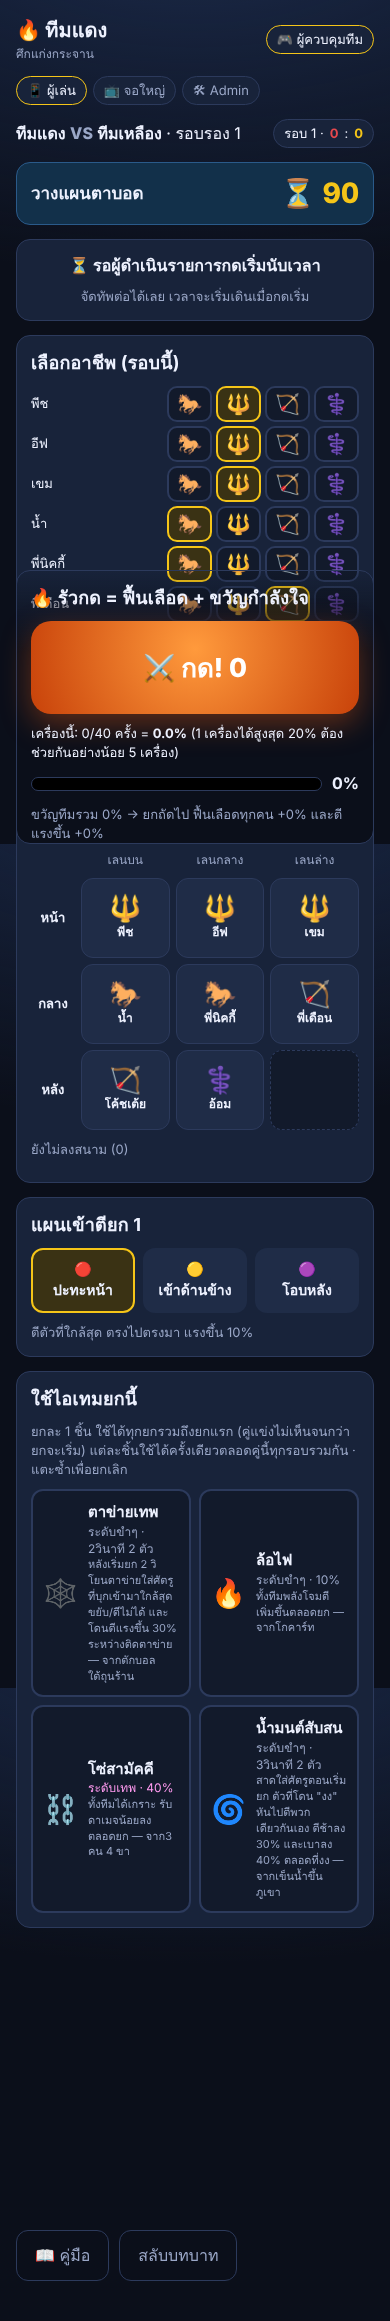
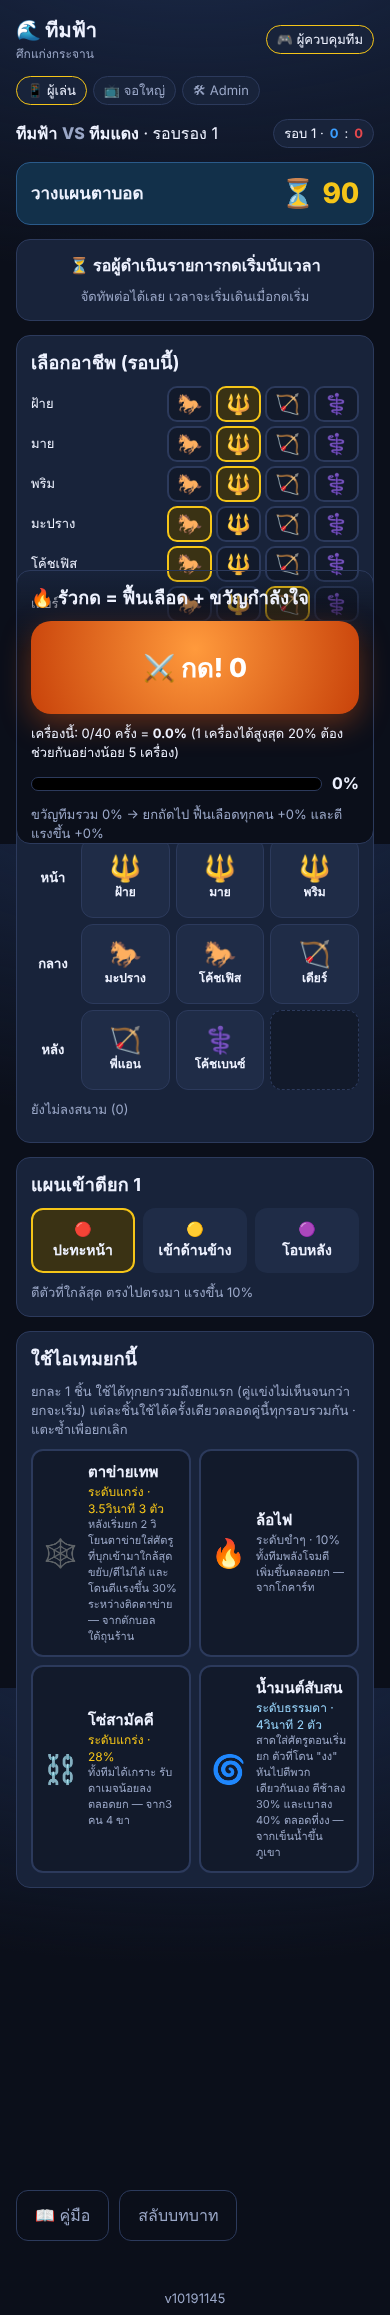
รอบตัดสิน: เลือกไอเทมเทพครั้งเดียว เก็บในกล่องไอเทม (แข่งจริง+ซ้อม)
Claude-Session: https://claude.ai/code/session_01JbJWCdY4QKd2woKbG6bJFF

diff --git a/js/app.js b/js/app.js
@@ -153,7 +153,7 @@
     const S = settings(); round = round || 1; wins = wins || { a: 0, b: 0 };
     const seed = 'm' + id + '-r' + round + '-' + Math.floor(Math.random() * 1e9).toString(36);
     const upd = {}; upd[a + '/plan'] = 'front'; upd[a + '/item'] = null; upd[b + '/plan'] = 'front'; upd[b + '/item'] = null;
-    if (round === 1) { upd[a + '/itemsUsed'] = null; upd[b + '/itemsUsed'] = null; upd[a + '/bonusUsed'] = null; upd[b + '/bonusUsed'] = null; }
+    if (round === 1) { upd[a + '/itemsUsed'] = null; upd[b + '/itemsUsed'] = null; upd[a + '/bonusUsed'] = null; upd[b + '/bonusUsed'] = null; upd[a + '/bonusPick'] = null; upd[b + '/bonusPick'] = null; }
     await R('teams').update(upd);
     await R('match').set({ id, a, b, round, wins, stage: 'plan', stageStart: now(), stageEnds: now() + S.tPlan * 1000, pausedAt: now(), seed, waveInputs: null, taps: null, result: null });
     await R('game').update({ phase: 'battle' });
@@ -180,7 +180,7 @@
         const t = st.teams[team] || {};
         let item = null;
         if (t.item && t.item.id && t.item.bonus) {
-          if (isDecider(m) && !t.bonusUsed && D.ITEMS[t.item.id]) { item = { id: t.item.id, tier: 0, revive: t.item.revive || null }; upd['__teams/' + team + '/bonusUsed'] = true; }
+          if (isDecider(m) && !t.bonusUsed && t.bonusPick === t.item.id && D.ITEMS[t.item.id]) { item = { id: t.item.id, tier: 0 }; upd['__teams/' + team + '/bonusUsed'] = true; }
         } else if (t.item && t.item.id) {
           const its = teamItems(team).find((x) => x.id === t.item.id);
           if (its && !its.used && !its.locked) { item = { id: its.id, tier: its.tier, revive: t.item.revive || null }; upd['__teams/' + team + '/itemsUsed/' + its.id] = true; }
@@ -298,8 +298,13 @@
     return h;
   }
   function itemsHtml(team, interactive) {
-    const sel = st.teams[team] && st.teams[team].item && !st.teams[team].item.bonus && st.teams[team].item.id;
-    return `<div class="item-grid">` + teamItems(team).map((it) => {
+    const t = st.teams[team] || {}; const sel = t.item && !t.item.bonus && t.item.id;
+    let bonus = '';
+    if (st.match && sideOf(team) && isDecider(st.match) && t.bonusPick && D.ITEMS[t.bonusPick]) {
+      const I = D.ITEMS[t.bonusPick]; const selB = t.item && t.item.bonus && t.item.id === t.bonusPick;
+      bonus = `<div class="item-card tier-0 ${t.bonusUsed ? 'used' : ''} ${selB ? 'sel' : ''}" style="border-color:var(--gold)" ${interactive && !t.bonusUsed ? `data-act="bonus-item" data-item="${t.bonusPick}"` : ''}><div class="em">⭐${I.emoji}</div><div><div class="nm">${I.name} (พิเศษ)${t.bonusUsed ? ' (ใช้แล้ว)' : ''}</div><div class="tier">ระดับเทพ · ${I.tiers[0]}${I.unit}${I.counts ? ' ' + I.counts[0] + ' ตัว' : ''}</div><div class="ds">ไอเทมเทพรอบตัดสิน</div></div></div>`;
+    }
+    return `<div class="item-grid">` + bonus + teamItems(team).map((it) => {
       const I = D.ITEMS[it.id]; const tierTxt = it.locked ? 'รอผลกิจกรรม' : `ระดับ${D.TIER_NAMES[it.tier]} · ${I.tiers[it.tier]}${I.unit}${I.counts ? ' ' + I.counts[it.tier] + ' ตัว' : ''}`;
       const cls = `item-card tier-${it.tier} ${it.used ? 'used' : ''} ${it.locked ? 'locked' : ''} ${sel === it.id ? 'sel' : ''}`;
       const act = interactive && !it.used && !it.locked ? `data-act="item" data-item="${it.id}"` : '';
@@ -388,8 +393,8 @@
       <div class="row"><label class="small">แผนเรา</label><select id="pr-plan">${Object.values(D.PLANS).map((p) => `<option value="${p.id}" ${pr.plan === p.id ? 'selected' : ''}>${p.emoji} ${p.name}</option>`).join('')}</select>
       <label class="small">แผนหุ่น</label><select id="pr-eplan">${Object.values(D.PLANS).map((p) => `<option value="${p.id}" ${pr.eplan === p.id ? 'selected' : ''}>${p.emoji} ${p.name}</option>`).join('')}</select></div>
       ${!pr.run ? `<div class="row"><button class="${pr.decider ? 'gold' : 'ghost'}" data-act="pr-decider">⭐ จำลองรอบตัดสิน (เสมอ 1-1): ${pr.decider ? 'เปิด' : 'ปิด'}</button><span class="small muted">ได้ไอเทมเทพเลือกเอง 1 ชิ้นเพิ่ม</span></div>` : ''}
-      ${!pr.run && pr.decider ? `<h3>⭐ ไอเทมเทพพิเศษ (เลือก 1 ใช้ยก 1 หรือเก็บไว้ใช้ตอนพักยก)</h3><div class="item-grid">` + Object.values(D.ITEMS).map((I) => `<div class="item-card tier-0 ${pr.item0 === 'bonus:' + I.id ? 'sel' : ''}" data-act="pr-item0" data-item="bonus:${I.id}"><div class="em">${I.emoji}</div><div><div class="nm">${I.name}</div><div class="tier">ระดับเทพ · ${I.tiers[0]}${I.unit}${I.counts ? ' ' + I.counts[0] + ' ตัว' : ''}</div></div></div>`).join('') + `</div>` : ''}
-      ${!pr.run ? `<h3>ใช้ไอเทมยก 1 (ถ้าจะใช้ · แตะซ้ำเพื่อยกเลิก)</h3><div class="item-grid">` + teamItems(team).map((it) => { const I = D.ITEMS[it.id]; const tierTxt = it.locked ? 'รอผลกิจกรรม' : `ระดับ${D.TIER_NAMES[it.tier]} · ${I.tiers[it.tier]}${I.unit}${I.counts ? ' ' + I.counts[it.tier] + ' ตัว' : ''}`; return `<div class="item-card tier-${it.tier} ${it.locked ? 'locked' : ''} ${pr.item0 === it.id ? 'sel' : ''}" ${!it.locked ? `data-act="pr-item0" data-item="${it.id}"` : ''}><div class="em">${I.emoji}</div><div><div class="nm">${I.name}</div><div class="tier">${tierTxt}</div></div></div>`; }).join('') + `</div>` : ''}
+      ${!pr.run && pr.decider ? `<h3>⭐ เลือกไอเทมเทพพิเศษ 1 ชิ้น (จะไปอยู่ในกล่องไอเทม)</h3><div class="item-grid">` + Object.values(D.ITEMS).map((I) => `<div class="item-card tier-0 ${pr.bonusPick === I.id ? 'sel' : ''}" data-act="pr-bonus-pick" data-item="${I.id}"><div class="em">${I.emoji}</div><div><div class="nm">${I.name}</div><div class="tier">ระดับเทพ · ${I.tiers[0]}${I.unit}${I.counts ? ' ' + I.counts[0] + ' ตัว' : ''}</div></div></div>`).join('') + `</div>` : ''}
+      ${!pr.run ? `<h3>ใช้ไอเทมยก 1 (ถ้าจะใช้ · แตะซ้ำเพื่อยกเลิก)</h3><div class="item-grid">` + (pr.decider && pr.bonusPick ? `<div class="item-card tier-0 ${pr.item0 === 'bonus:' + pr.bonusPick ? 'sel' : ''}" style="border-color:var(--gold)" data-act="pr-item0" data-item="bonus:${pr.bonusPick}"><div class="em">⭐${D.ITEMS[pr.bonusPick].emoji}</div><div><div class="nm">${D.ITEMS[pr.bonusPick].name} (พิเศษ)</div><div class="tier">ระดับเทพ</div></div></div>` : '') + teamItems(team).map((it) => { const I = D.ITEMS[it.id]; const tierTxt = it.locked ? 'รอผลกิจกรรม' : `ระดับ${D.TIER_NAMES[it.tier]} · ${I.tiers[it.tier]}${I.unit}${I.counts ? ' ' + I.counts[it.tier] + ' ตัว' : ''}`; return `<div class="item-card tier-${it.tier} ${it.locked ? 'locked' : ''} ${pr.item0 === it.id ? 'sel' : ''}" ${!it.locked ? `data-act="pr-item0" data-item="${it.id}"` : ''}><div class="em">${I.emoji}</div><div><div class="nm">${I.name}</div><div class="tier">${tierTxt}</div></div></div>`; }).join('') + `</div>` : ''}
       <div class="row"><button class="primary" data-act="practice-start">▶ เริ่มซ้อม${pr.run ? 'ใหม่' : ''}</button>${pr.run ? '<button class="ghost" data-act="practice-stop">หยุด</button>' : ''}</div>`;
     if (pr.run) {
       const r = pr.run; const S2 = settings();
@@ -400,8 +405,8 @@
         h += `<div class="panel"><div class="row"><h2 class="grow">จัดทัพใหม่ก่อนยก ${r.waveIdx + 1}</h2></div><div class="hint">${ui.prSel ? '👉 แตะช่องที่จะวาง' : 'แตะคนที่รอด แล้วแตะช่อง (เลือดไม่ฟื้น เหมือนศึกจริง)'}</div>${prBoardHtml(r, 'A', true)}</div>`;
         h += `<div class="panel"><h3>ทัพหุ่นตอนนี้</h3>${prBoardHtml(r, 'B', false)}</div>`;
         h += `<div class="panel"><h2>แผนเข้าตียก ${r.waveIdx + 1}</h2><div class="plan-grid">` + Object.values(D.PLANS).map((p) => `<button class="plan-btn ${r.plan === p.id ? 'sel' : ''}" data-act="pr-plan" data-plan="${p.id}"><span>${p.emoji}</span><b>${p.name}</b></button>`).join('') + `</div></div>`;
-        if (r.decider) h += `<div class="panel"><h2>⭐ รอบตัดสิน: ไอเทมเทพพิเศษ</h2><div class="hint">${r.bonusUsed ? 'ใช้สิทธิ์ไปแล้ว' : 'เลือกได้ 1 ชิ้น ระดับเทพ ใช้ได้ครั้งเดียว'}</div><div class="item-grid">` + Object.values(D.ITEMS).map((I) => `<div class="item-card tier-0 ${r.bonusUsed ? 'used' : ''} ${r.item === 'bonus:' + I.id ? 'sel' : ''}" ${!r.bonusUsed ? `data-act="pr-item" data-item="bonus:${I.id}"` : ''}><div class="em">${I.emoji}</div><div><div class="nm">${I.name}</div><div class="tier">ระดับเทพ · ${I.tiers[0]}${I.unit}${I.counts ? ' ' + I.counts[0] + ' ตัว' : ''}</div></div></div>`).join('') + `</div></div>`;
-        h += `<div class="panel"><h2>ใช้ไอเทมยกนี้</h2><div class="hint">ระดับตามอันดับจริงของทีม ชิ้นละครั้งต่อการซ้อม 1 ครั้ง</div><div class="item-grid">` + teamItems(team).map((it) => { const I = D.ITEMS[it.id]; const used = !!r.itemsUsed[it.id]; const sel = r.item === it.id; const tierTxt = it.locked ? 'รอผลกิจกรรม' : `ระดับ${D.TIER_NAMES[it.tier]} · ${I.tiers[it.tier]}${I.unit}${I.counts ? ' ' + I.counts[it.tier] + ' ตัว' : ''}`;
+        const bonusCard = (r.decider && r.bonusPick) ? `<div class="item-card tier-0 ${r.bonusUsed ? 'used' : ''} ${r.item === 'bonus:' + r.bonusPick ? 'sel' : ''}" style="border-color:var(--gold)" ${!r.bonusUsed ? `data-act="pr-item" data-item="bonus:${r.bonusPick}"` : ''}><div class="em">⭐${D.ITEMS[r.bonusPick].emoji}</div><div><div class="nm">${D.ITEMS[r.bonusPick].name} (พิเศษ)${r.bonusUsed ? ' (ใช้แล้ว)' : ''}</div><div class="tier">ระดับเทพ</div></div></div>` : '';
+        h += `<div class="panel"><h2>ใช้ไอเทมยกนี้</h2><div class="hint">ระดับตามอันดับจริงของทีม ชิ้นละครั้งต่อการซ้อม 1 ครั้ง</div><div class="item-grid">` + bonusCard + teamItems(team).map((it) => { const I = D.ITEMS[it.id]; const used = !!r.itemsUsed[it.id]; const sel = r.item === it.id; const tierTxt = it.locked ? 'รอผลกิจกรรม' : `ระดับ${D.TIER_NAMES[it.tier]} · ${I.tiers[it.tier]}${I.unit}${I.counts ? ' ' + I.counts[it.tier] + ' ตัว' : ''}`;
           return `<div class="item-card tier-${it.tier} ${used ? 'used' : ''} ${it.locked ? 'locked' : ''} ${sel ? 'sel' : ''}" ${!used && !it.locked ? `data-act="pr-item" data-item="${it.id}"` : ''}><div class="em">${I.emoji}</div><div><div class="nm">${I.name}${used ? ' (ใช้แล้ว)' : ''}</div><div class="tier">${tierTxt}</div></div></div>`; }).join('') + `</div></div>`;
         h += `<button class="primary" data-act="pr-next" style="font-size:20px">▶ เริ่มยก ${r.waveIdx + 1}</button>`;
       }
@@ -481,13 +486,13 @@
     if (!i) return toast('จัดหุ่นก่อนอย่างน้อย 1 ตัว');
     const roster = { ...A.roster, ...ros };
     const units = Sim.createUnits({ A: { team, cells: A.cells }, B: { team: eteam, cells: ecells } }, roster, S);
-    pr.run = { stage: 'wave', waveIdx: 0, units, cells: { ...A.cells }, ecells, roster, teams: { A: team, B: eteam }, plan: pr.plan, eplan: pr.eplan, item: pr.item0 || null, itemsUsed: {}, decider: !!pr.decider, bonusUsed: false, waves: [], seed: 'practice-' + Date.now(), playing: -1 };
+    pr.run = { stage: 'wave', waveIdx: 0, units, cells: { ...A.cells }, ecells, roster, teams: { A: team, B: eteam }, plan: pr.plan, eplan: pr.eplan, item: pr.item0 || null, itemsUsed: {}, decider: !!pr.decider, bonusPick: pr.bonusPick || null, bonusUsed: false, waves: [], seed: 'practice-' + Date.now(), playing: -1 };
     practiceWave(); render(); practiceTick();
   }
   function practiceWave() {
     const r = ui.practice.run; const S = settings(); const team = r.teams.A; const durs = [S.tWave1, S.tWave2, S.tWave3];
     let item = null;
-    if (r.item && r.item.startsWith('bonus:')) { const id = r.item.slice(6); if (r.decider && !r.bonusUsed && D.ITEMS[id]) { item = { id, tier: 0 }; r.bonusUsed = true; } }
+    if (r.item && r.item.startsWith('bonus:')) { const id = r.item.slice(6); if (r.decider && !r.bonusUsed && id === r.bonusPick && D.ITEMS[id]) { item = { id, tier: 0 }; r.bonusUsed = true; } }
     else if (r.item && !r.itemsUsed[r.item]) { const it = teamItems(team).find((x) => x.id === r.item); if (it && !it.locked) { item = { id: it.id, tier: it.tier }; r.itemsUsed[r.item] = true; } }
     r.item = null;
     const inputs = { A: { team, plan: r.plan, item, morale: 0, cells: r.cells }, B: { team: r.teams.B, plan: r.eplan, item: null, morale: 0, cells: r.ecells } };
@@ -537,9 +542,9 @@
     if (m.stage !== 'plan') h += `<div class="panel"><h3>ทัพศัตรู (${D.TEAMS[enemy].name}) ตอนนี้</h3>${boardHtml(enemy, {})}</div>`;
     h += `<div class="panel"><h2>แผนเข้าตียก ${w + 1}</h2>${plansHtml(team, true)}</div>`;
     if (isDecider(m)) {
-      const t = st.teams[team] || {}; const selB = t.item && t.item.bonus ? t.item.id : null;
-      h += `<div class="panel"><h2>⭐ รอบตัดสิน: ไอเทมเทพพิเศษ</h2><div class="hint">${t.bonusUsed ? 'ใช้สิทธิ์ไปแล้ว' : 'เลือกได้ 1 ชิ้น ระดับเทพ ใช้ได้ครั้งเดียวในรอบนี้ (เพิ่มจากไอเทมที่เหลือ)'}</div><div class="item-grid">` +
-        Object.values(D.ITEMS).map((I) => `<div class="item-card tier-0 ${t.bonusUsed ? 'used' : ''} ${selB === I.id ? 'sel' : ''}" ${!t.bonusUsed ? `data-act="bonus-item" data-item="${I.id}"` : ''}><div class="em">${I.emoji}</div><div><div class="nm">${I.name}</div><div class="tier">ระดับเทพ · ${I.tiers[0]}${I.unit}${I.counts ? ' ' + I.counts[0] + ' ตัว' : ''}</div></div></div>`).join('') + `</div></div>`;
+      const t = st.teams[team] || {};
+      if (!t.bonusPick) h += `<div class="panel"><h2>⭐ รอบตัดสิน: เลือกไอเทมเทพพิเศษ 1 ชิ้น</h2><div class="hint">เลือกครั้งเดียว จะไปอยู่ในกล่องไอเทมของทีม ใช้ยกไหนก็ได้ในรอบนี้</div><div class="item-grid">` +
+        Object.values(D.ITEMS).map((I) => `<div class="item-card tier-0" data-act="bonus-pick" data-item="${I.id}"><div class="em">${I.emoji}</div><div><div class="nm">${I.name}</div><div class="tier">ระดับเทพ · ${I.tiers[0]}${I.unit}${I.counts ? ' ' + I.counts[0] + ' ตัว' : ''}</div></div></div>`).join('') + `</div></div>`;
     }
     h += `<div class="panel"><h2>ใช้ไอเทมยกนี้</h2><div class="hint">ยกละ 1 ชิ้น ใช้ได้ทุกยกรวมถึงยกแรก (คู่แข่งไม่เห็นจนกว่ายกจะเริ่ม) แต่ละชิ้นใช้ได้ครั้งเดียวตลอดคู่นี้ทุกรอบรวมกัน · แตะซ้ำเพื่อยกเลิก</div>${itemsHtml(team, true)}</div>`;
     h += `<div class="panel sticky-bottom"><h2>🔥 รัวกด = ฟื้นเลือด + ขวัญกำลังใจ</h2>` + tapHtml(side) + `</div>`;
@@ -754,6 +759,7 @@
       }
       else if (act === 'plan') { const team = myTeam(); if (!team || !isCtrl(team)) return; await R('teams/' + team).update({ plan: el.dataset.plan }); }
       else if (act === 'item') { const team = myTeam(); if (!team || !isCtrl(team)) return; const cur = st.teams[team] && st.teams[team].item; await R('teams/' + team).update({ item: cur && cur.id === el.dataset.item && !cur.bonus ? null : { id: el.dataset.item } }); }
+      else if (act === 'bonus-pick') { const team = myTeam(); if (!team || !isCtrl(team)) return; if (st.teams[team] && st.teams[team].bonusPick) return; await R('teams/' + team).update({ bonusPick: el.dataset.item }); toast('ได้ไอเทมเทพพิเศษแล้ว อยู่ในกล่องไอเทม'); }
       else if (act === 'bonus-item') { const team = myTeam(); if (!team || !isCtrl(team)) return; const cur = st.teams[team] && st.teams[team].item; await R('teams/' + team).update({ item: cur && cur.bonus && cur.id === el.dataset.item ? null : { id: el.dataset.item, tier: 0, bonus: true } }); }
       else if (act === 'tap') { tap(); }
       else if (act === 'practice-start') { ui.prSel = null; if (pRenderer) { pRenderer.stop(); pRenderer = null; } practiceStart(); }
@@ -761,7 +767,8 @@
       else if (act === 'pr-cell') { const c = +el.dataset.cell; const pr = ui.practice; const cur = pr.enemyCells[c] || null; let ni = (CYCLE.indexOf(cur) + 1) % CYCLE.length; if (CYCLE[ni] && Object.values(pr.enemyCells).filter(Boolean).length >= 8 && !cur) ni = 0; if (CYCLE[ni] === 'medic' && Object.values(pr.enemyCells).filter((x) => x === 'medic').length >= settings().medicMax) ni = 0; pr.enemyCells[c] = CYCLE[ni]; render(); }
       else if (act === 'pr-random') { ui.practice.enemyCells = randomEnemy(); render(); }
       else if (act === 'pr-item0') { ui.practice.item0 = ui.practice.item0 === el.dataset.item ? null : el.dataset.item; render(); }
-      else if (act === 'pr-decider') { ui.practice.decider = !ui.practice.decider; if (!ui.practice.decider && (ui.practice.item0 || '').startsWith('bonus:')) ui.practice.item0 = null; render(); }
+      else if (act === 'pr-decider') { ui.practice.decider = !ui.practice.decider; if (!ui.practice.decider) { ui.practice.bonusPick = null; if ((ui.practice.item0 || '').startsWith('bonus:')) ui.practice.item0 = null; } render(); }
+      else if (act === 'pr-bonus-pick') { ui.practice.bonusPick = el.dataset.item; if ((ui.practice.item0 || '').startsWith('bonus:')) ui.practice.item0 = 'bonus:' + el.dataset.item; render(); }
       else if (act === 'pr-plan') { ui.practice.run.plan = el.dataset.plan; render(); }
       else if (act === 'pr-item') { const r = ui.practice.run; r.item = r.item === el.dataset.item ? null : el.dataset.item; render(); }
       else if (act === 'pr-next') { const r = ui.practice.run; if (r.stage !== 'pause') return; ui.prSel = null; practiceWave(); render(); practiceTick(); }
@@ -788,7 +795,7 @@
       else if (act === 'advance') { await advanceStage(); }
       else if (act === 'extend') { await R('match').update({ stageEnds: st.match.stageEnds + 15000 }); }
       else if (act === 'pause') { await togglePause(); }
-      else if (act === 'restart-match') { if (!confirmUi(el, 'เริ่มศึกนี้ใหม่ทั้งหมด (สกอร์และไอเทมของคู่นี้รีเซ็ต)?')) return; const m = st.match; const upd = {}; for (const t of [m.a, m.b]) { upd[t + '/itemsUsed'] = null; upd[t + '/bonusUsed'] = null; } await R('teams').update(upd); await startMatch(m.id, m.a, m.b, 1, { a: 0, b: 0 }); }
+      else if (act === 'restart-match') { if (!confirmUi(el, 'เริ่มศึกนี้ใหม่ทั้งหมด (สกอร์และไอเทมของคู่นี้รีเซ็ต)?')) return; const m = st.match; const upd = {}; for (const t of [m.a, m.b]) { upd[t + '/itemsUsed'] = null; upd[t + '/bonusUsed'] = null; upd[t + '/bonusPick'] = null; } await R('teams').update(upd); await startMatch(m.id, m.a, m.b, 1, { a: 0, b: 0 }); }
       else if (act === 'reset-match') { if (!confirmUi(el, 'รีเซ็ตเกม: ล้างศึก/สาย/ไอเทมที่ใช้ไป เก็บทัพ อันดับ รายชื่อ ผู้ควบคุมไว้ ยืนยัน?')) return; await R('match').set(null); await R('bracket').set(null); const upd = {}; for (const t of D.TEAM_ORDER) { upd[t + '/itemsUsed'] = null; upd[t + '/item'] = null; } await R('teams').update(upd); await R('game').update({ phase: 'lobby' }); }
       else if (act === 'reset-all') { if (!confirmUi(el, 'ล้างทุกอย่าง (ทัพ อาชีพ อันดับ สาย ผู้ควบคุม) — เก็บรายชื่อ รหัสทีม และค่าสมดุลไว้ ยืนยัน?')) return; const g = st.game || {}; await R('').set({ game: { phase: 'lobby', roster: g.roster || null, teamPass: g.teamPass || null, settings: g.settings || null } }); toast('ล้างแล้ว'); }
       else if (act === 'fill-demo') { await fillDemo(); }

diff --git a/index.html b/index.html
@@ -8,22 +8,22 @@
 <link rel="preconnect" href="https://fonts.googleapis.com">
 <link rel="preconnect" href="https://fonts.gstatic.com" crossorigin>
 <link href="https://fonts.googleapis.com/css2?family=Kanit:wght@400;500;600;700;800&family=Sarabun:wght@400;500;700&display=swap" rel="stylesheet">
-<link rel="stylesheet" href="css/style.css?v=20261019114508">
+<link rel="stylesheet" href="css/style.css?v=20261019114940">
 </head>
 <body>
 <div id="app" class="app"><div class="boot">กำลังโหลดสนามรบ…</div></div>
 <div id="toast" class="toast" hidden></div>
 
-<script src="js/vendor/firebase-app-compat.js?v=20261019114508"></script>
-<script src="js/vendor/firebase-database-compat.js?v=20261019114508"></script>
-<script src="js/vendor/morphdom-umd.js?v=20261019114508"></script>
+<script src="js/vendor/firebase-app-compat.js?v=20261019114940"></script>
+<script src="js/vendor/firebase-database-compat.js?v=20261019114940"></script>
+<script src="js/vendor/morphdom-umd.js?v=20261019114940"></script>
 <script src="https://cdnjs.cloudflare.com/ajax/libs/qrcodejs/1.0.0/qrcode.min.js"></script>
-<script src="js/config.js?v=20261019114508"></script>
-<script src="js/data.js?v=20261019114508"></script>
-<script src="js/store.js?v=20261019114508"></script>
-<script src="js/sim.js?v=20261019114508"></script>
-<script src="js/sprites.js?v=20261019114508"></script>
-<script src="js/render.js?v=20261019114508"></script>
-<script src="js/app.js?v=20261019114508"></script>
+<script src="js/config.js?v=20261019114940"></script>
+<script src="js/data.js?v=20261019114940"></script>
+<script src="js/store.js?v=20261019114940"></script>
+<script src="js/sim.js?v=20261019114940"></script>
+<script src="js/sprites.js?v=20261019114940"></script>
+<script src="js/render.js?v=20261019114940"></script>
+<script src="js/app.js?v=20261019114940"></script>
 </body>
 </html>

diff --git a/js/config.js b/js/config.js
@@ -10,4 +10,4 @@ window.FIREBASE_CONFIG = {
   appId: "1:281187085850:web:97329913559c59b653eba3"
 };
 
-window.KKWAR_VERSION = '20261019114508';
+window.KKWAR_VERSION = '20261019114940';
